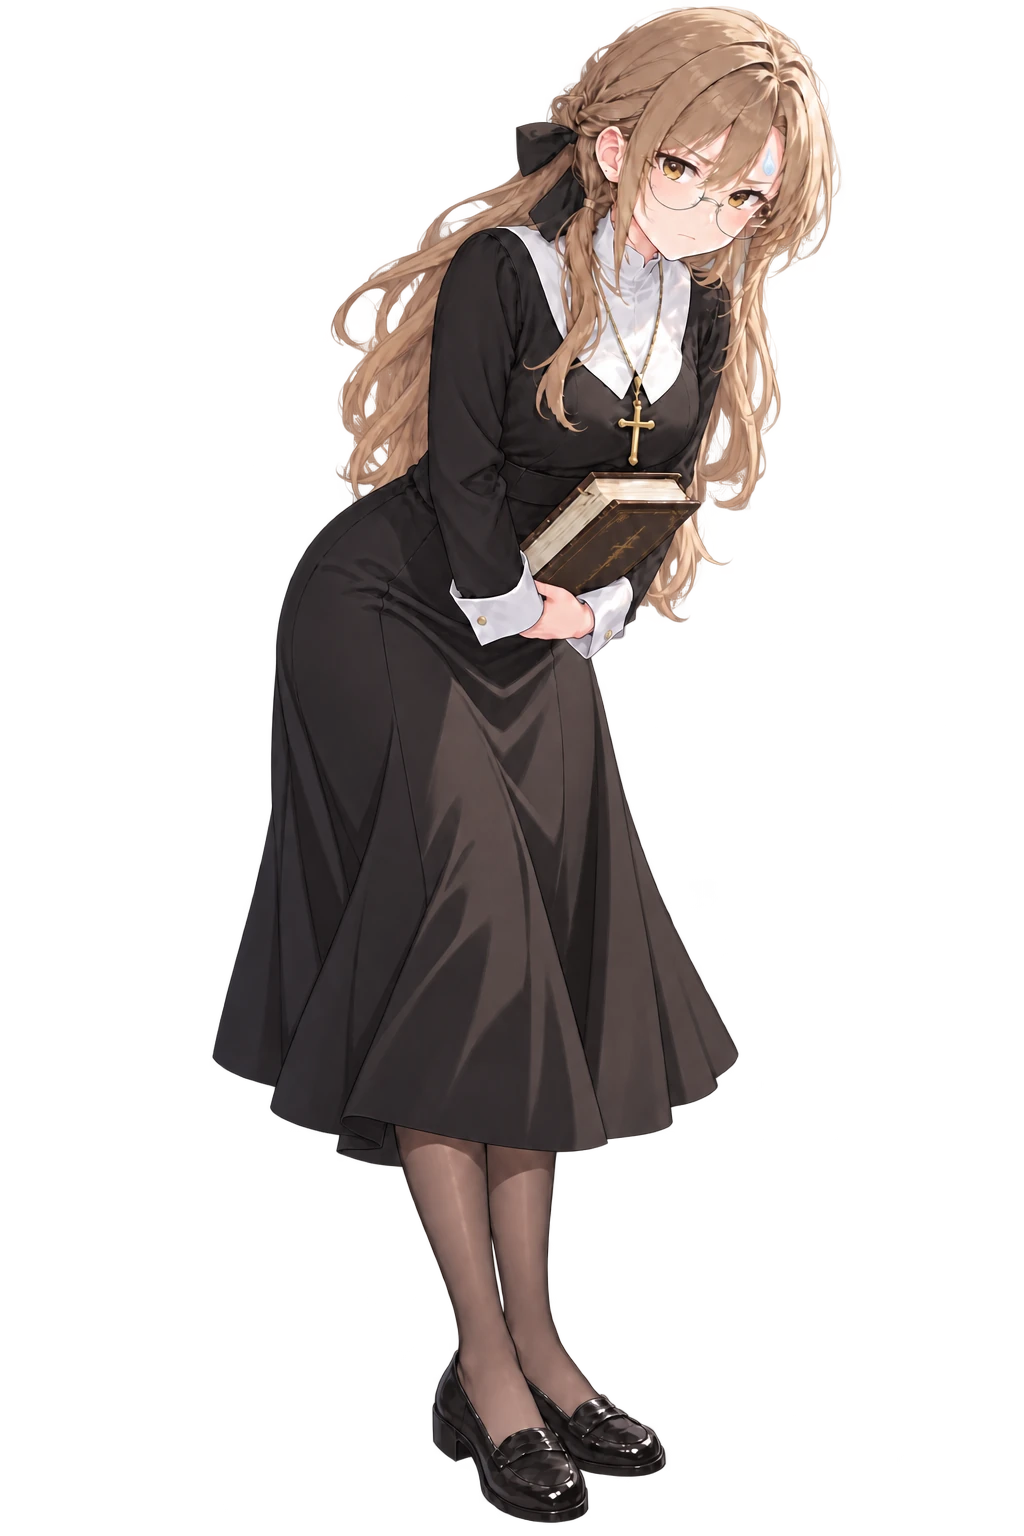
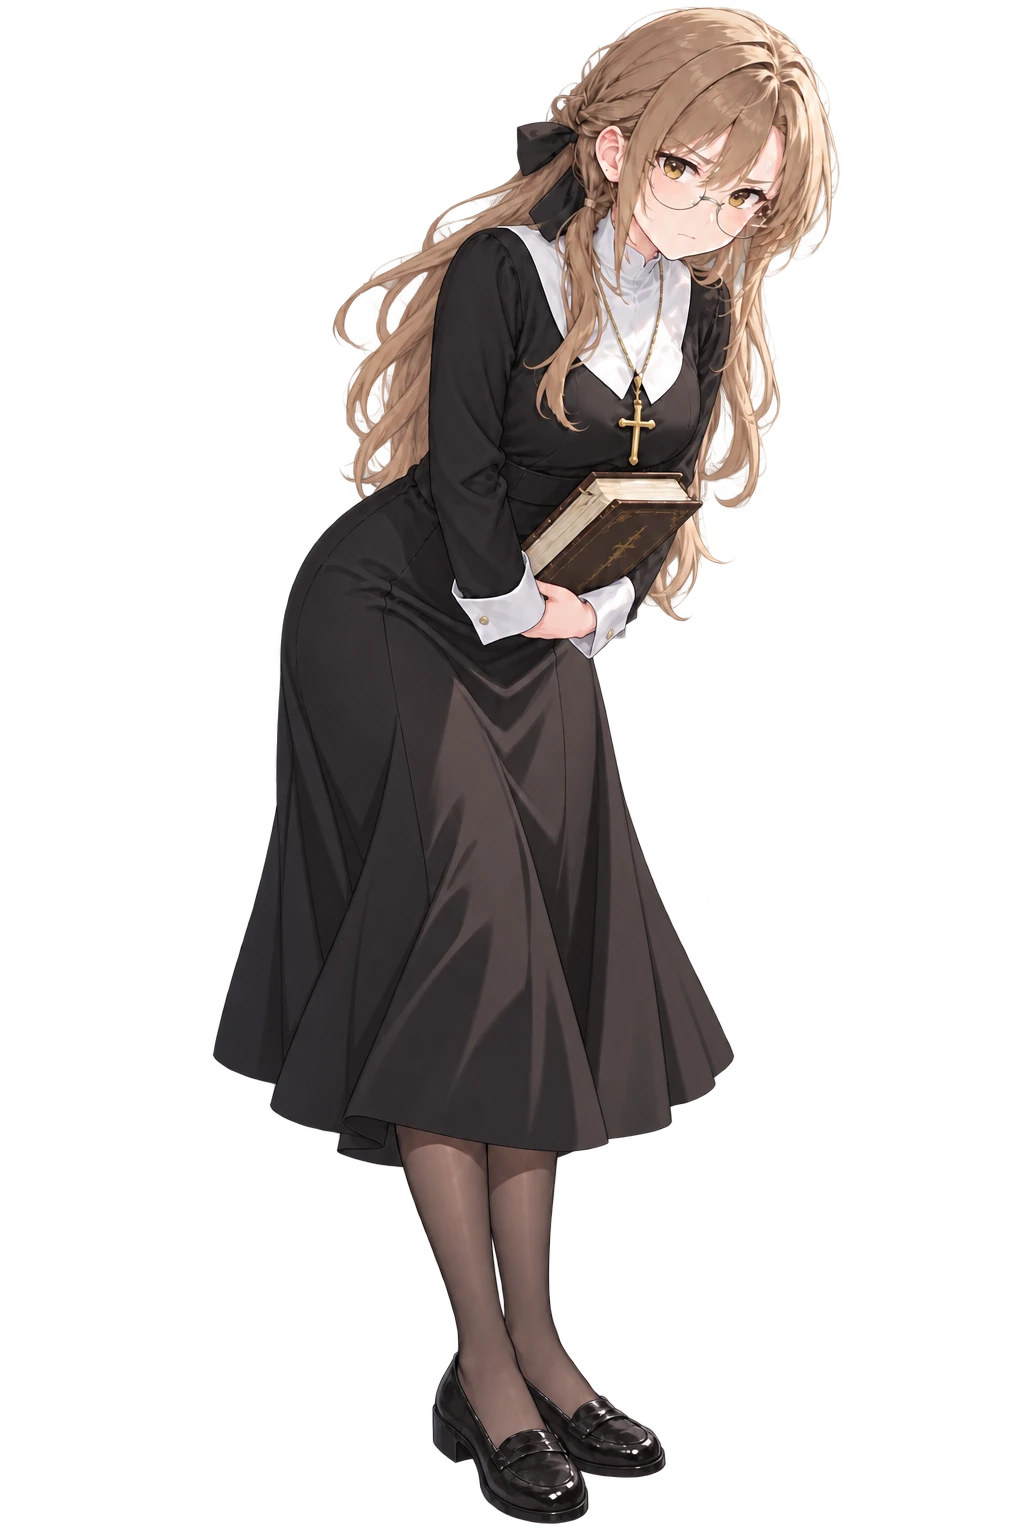
art: 蘿芮 disbelief 新增／bowsweat 換無汗版（同名覆蓋，待 bust）＋工單

diff --git a/resources/si/_loneisle_si_worklist.md b/resources/si/_loneisle_si_worklist.md
@@ -100,3 +100,16 @@ faint: { src:'resources/si/sorana_si_faint.webp', top:249, bot:1482, fx:0.380 },
   所以 `top:249` 不是站姿頭頂（measure_si 也警告「縱向只佔 80%」）。**不要寫 `rescale`**：照 §5 預設沿用
   front 的尺，她在畫面上會比站姿小約 12%、頭明顯偏低，那正是「倒下去」的樣子。進遊戲覺得太小再調 `cm`。
 - `fx:0.380` 量到的是往後仰的臉，偏左是對的（頭往後倒到畫面左側）。
+
+## 八、追加（2026-10-30）
+
+### 蘿芮 `disbelief`（新檔，1 張）— `ART.laurie.expr` 加
+```js
+disbelief: { src:'resources/si/laurie_si_disbelief.webp', top:8, bot:1521, fx:0.483 },   // 不可置信的驚訝：瞪眼、手捂嘴、抱書後縮
+```
+- 新檔名，不必 bust。原 PNG：`resources/_originals/SI/laurie_si_disbelief.png`。
+
+### ⚠ 蘿芮 `bowsweat` **同名覆蓋**（Ray：「額頭上的汗拿掉」）
+- `resources/si/laurie_si_bowsweat.webp` 換成**無汗版**（同姿勢、同嚴肅表情，只是沒有汗珠）；舊的有汗版已回收。
+- ⚠⚠ **程式端要跑 `python3 tools/bust.py --bump`**（§5 -1918：同名覆蓋走內容雜湊），不跑的話玩家吃到的還是有汗那一張。
+- 取景值改成 `top:7, bot:1523, fx:0.679`（與舊版只差 1px，不改也行）。
